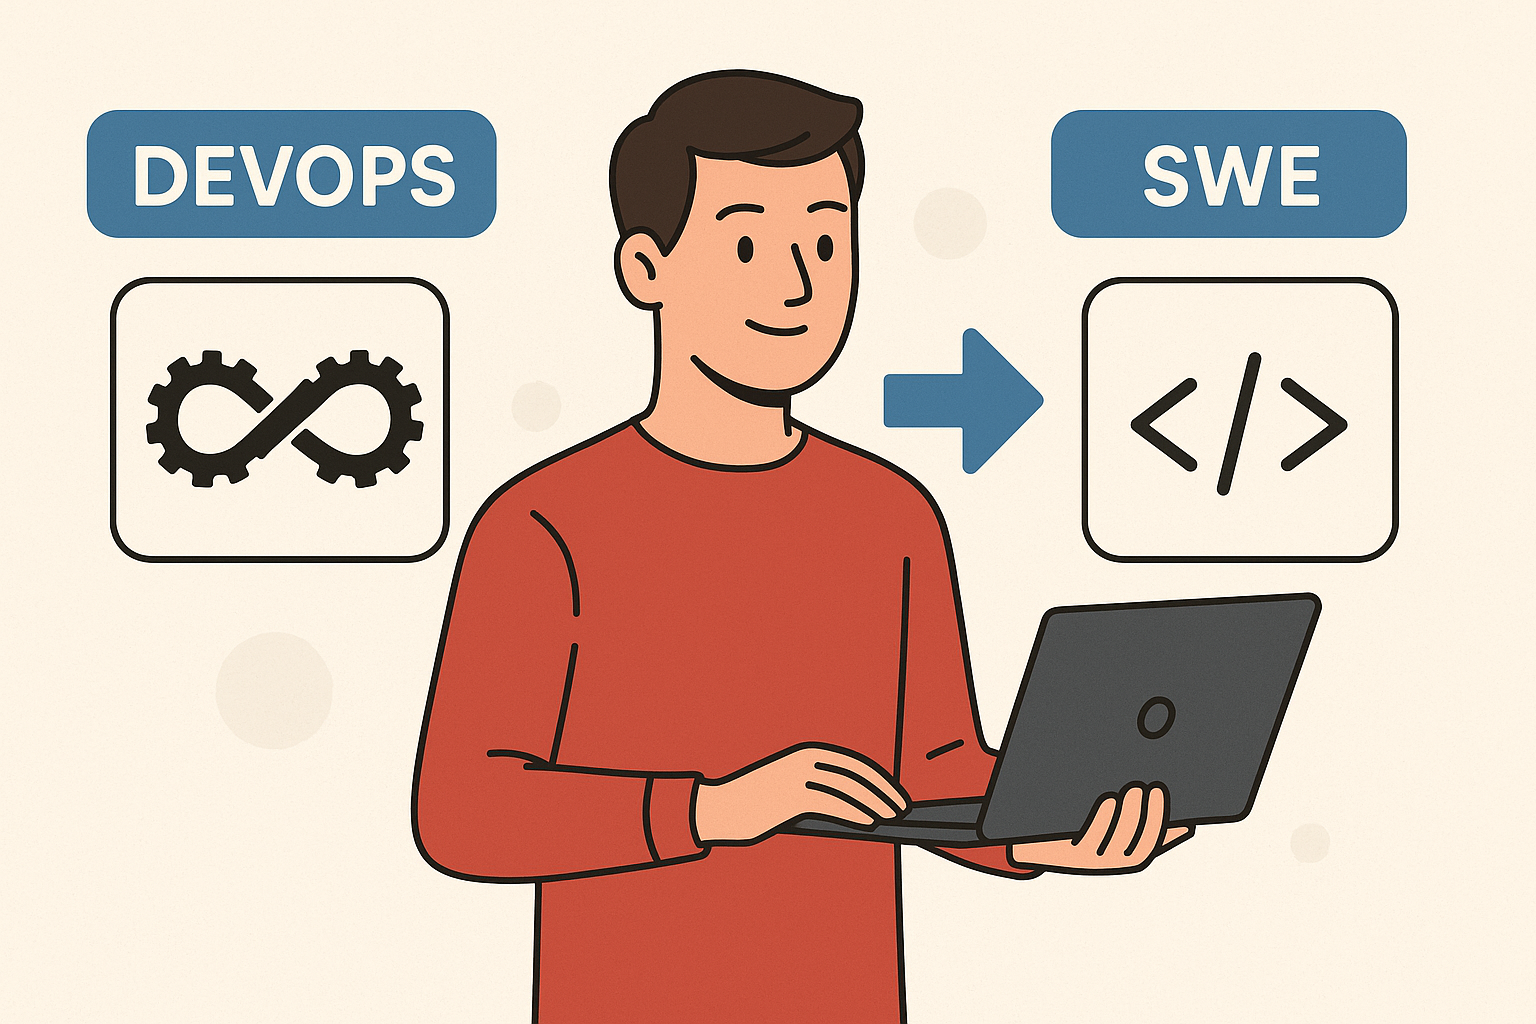
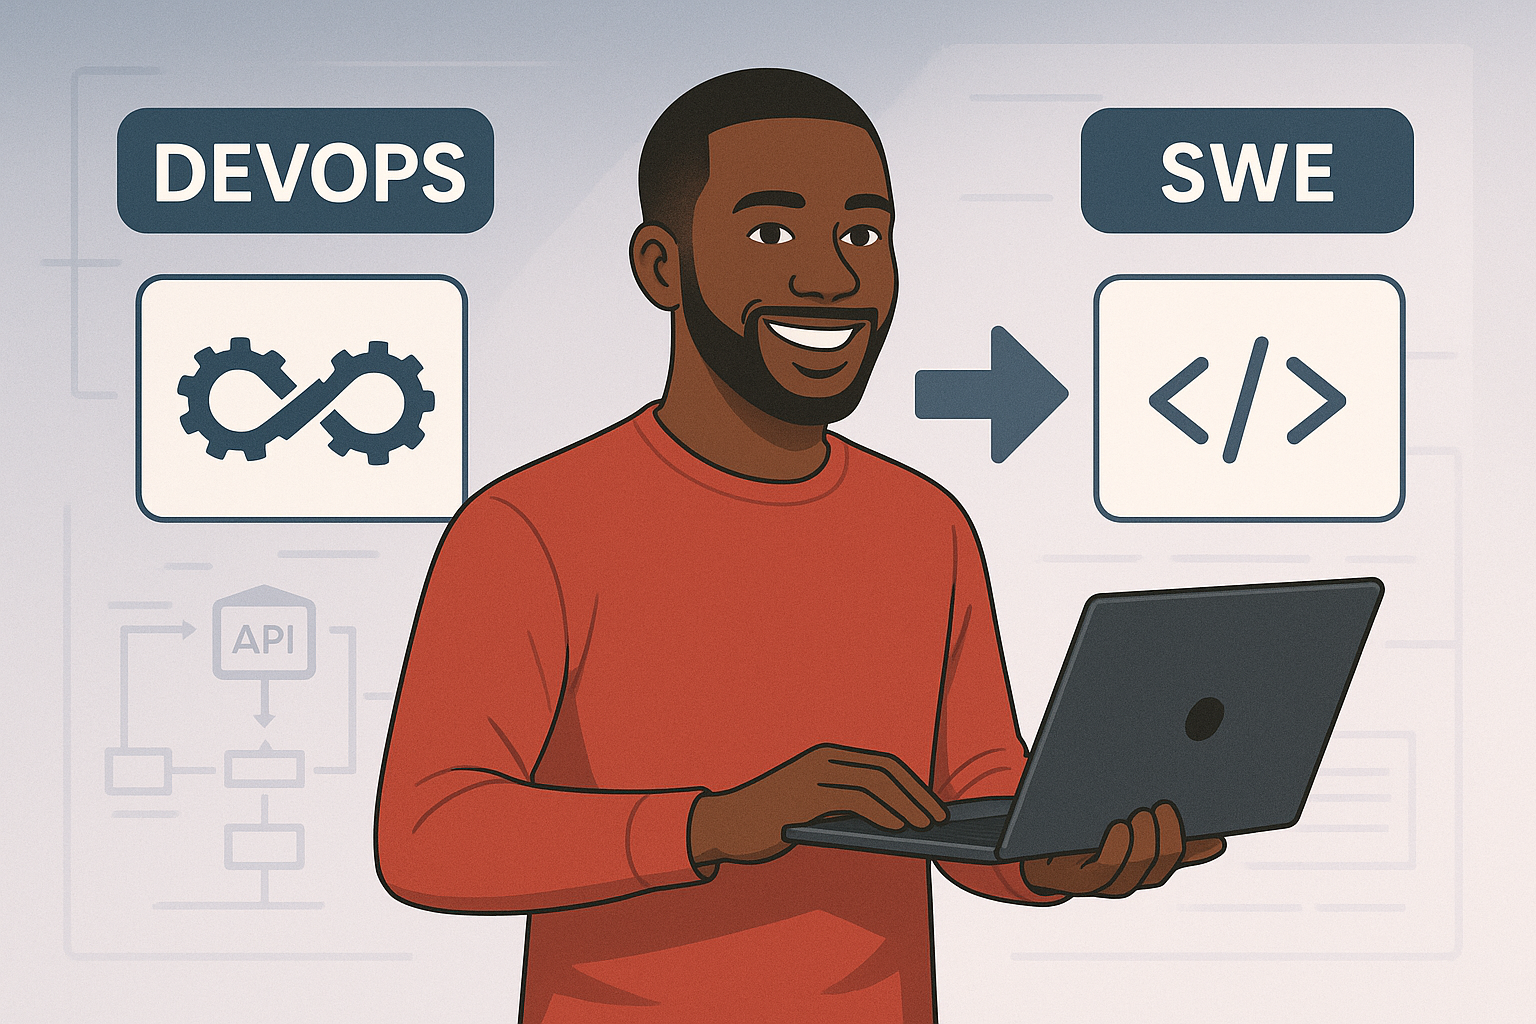
feat: add new image to article

diff --git a/src/presentation/pages/post/Post.tsx b/src/presentation/pages/post/Post.tsx
@@ -41,6 +41,8 @@ const Post = () => {
     fetchPost(slug);
   }, [slug, getPost]);
 
+  if (!Object.keys(attributes).length) return null;
+
   return (
     <C.PostContainer>
       {content === null ? (
@@ -52,7 +54,7 @@ const Post = () => {
             <C.PostHeaderContent>
               <img
                 src={
-                  "https://camo.githubusercontent.com/444008db71c058981970dc8f0898e624f5f663c6e601fa1f6b85ab09a0d3936b/68747470733a2f2f6f63746f6465782e6769746875622e636f6d2f696d616765732f426c61636b746f6361745f73696e676c655f312e6a7067"
+                  attributes.authorImage
                 }
                 alt={"Author"}
               />

diff --git a/src/presentation/pages/home/components/posts/Posts.tsx b/src/presentation/pages/home/components/posts/Posts.tsx
@@ -24,7 +24,7 @@ export const Posts = () => {
               <h3>{title}</h3>
               {summary && <p>{summary}</p>}
               <C.PostFooter>
-                <C.PostFooterDate>{formatDate(date)}</C.PostFooterDate>
+                <C.PostFooterDate>{date ? formatDate(date) : null}</C.PostFooterDate>
                 <Tags tags={tags} />
               </C.PostFooter>
             </C.PostContainerContent>

diff --git a/src/utils/date.ts b/src/utils/date.ts
@@ -1,7 +1,9 @@
 export const formatDate = (date: string) => {
-  return new Date(date).toLocaleDateString('pt-BR', {
+  const [year, month, day] = date.split('-').map(Number);
+  const localDate = new Date(year, month - 1, day);
+  return localDate.toLocaleDateString('pt-BR', {
     year: 'numeric',
     month: 'long',
     day: 'numeric'
-  })
+  });
 }

diff --git a/src/@types/posts.type.ts b/src/@types/posts.type.ts
@@ -5,6 +5,7 @@ export type Attributes = {
   summary?: string;
   tags: string[];
   image?: string;
+  authorImage: string;
 }
 
 export type PostType = Attributes & {

diff --git a/src/data/posts/transitioning-from-devops-to-swe.md b/src/data/posts/transitioning-from-devops-to-swe.md
@@ -1,9 +1,10 @@
 ---
 title: Transicionando de DevOps para Software Enginner
 author: Antonio Azambuja
-date: "2025-06-13"
+date: "2025-06-14"
 summary: "Relato de transição de DevOps/SRE para Software Engineer"
 image: src/assets/transitioning-from-devops-to-swe.png
+authorImage: src/assets/author/antonio.azambuja.jpeg
 tags:
   - "devops"
   - "sre"
@@ -22,7 +23,7 @@ Bom, dando um resumo rápido sobre mim e minha carreira: Tenho 26 anos e trabalh
 
 Em cargos de DevOps/SRE desenvolvi projetos com bastante código para alcançar alguns objetivos. O detalhe importante aqui é que todos foram construídos com pouca ou nenhuma boa prática de desenvolvimento aplicada.
 
-Eu não sei se todos os meus colegas DevOps e SREs por ai compartilham desse sentimento mas eu sempre senti um pouco de sindrome do impostor por não saber desenvolver um software. Meu inicio de carreira foi marcado por uma base muito sólida em desenvolvimento e infraestrutura que pavimentou minha estrada nos cargos de infraestrutura e agora no cargo de Software Engineer.
+Eu não sei se todos os meus colegas DevOps e SREs por ai compartilham desse sentimento mas eu sempre senti um pouco de sindrome do impostor por não saber desenvolver um software. Meu início de carreira foi marcado por uma base muito sólida em desenvolvimento e infraestrutura que pavimentou minha estrada nos cargos de infraestrutura e agora no cargo de Software Engineer.
 
 Mas programar sempre foi um hobby pra mim. Durante meus anos atuando como DevOps/SRE sempre foi um diferencial profissional interessante poder resolver problemas com código.
 
@@ -30,34 +31,13 @@ Agora, para ajudar você, caro leitor e interessado(a) em entender um pouco dess
 
 ### DevOps - Criar ferramental e habilitar a independência da pessoa desenvolvedora
 
-Durante minha jornada como DevOps as responsabilidades eram sempre de entregar um ferramental com a característica de ser *plug-and-play*. O objetivo era tudo ser facilmente aclopado e desacoplado pelos usuários e afim de entregar autonomia para a pessoa desenvolvedora. Pois a última coisa que queremos como equipe DevOps é um ferramental que precisa de intervenção do time para ser implementado. Se formos levar em consideraçãao uma empresa de médio porte o número de desenvolvedores será sempre maior que o de DevOps e essa conta não iria bater nunca. Isso levaria a exaustão do time em poucos meses.
-
-Para esse artigo 2 cases são super importantes:
-
-- Uma CLI em Python para criar e orquestrar clusters Elasticsearch construídos em EC2 na AWS. O nosso objetivo era ter uma forma prática para orquestrar os nós presentes em clusters Elasticsearch respeitando a reindexação de indices causados pela adição ou remoção de nós garantindo zero downtime para os clientes. Isso habilitou o time de DevOps realizar as seguintes mudanças em ambientes produtivos sem downtime:
-  - Adicionar e remover nós;
-  - Aumentar e diminuir tamanho de disco;
-- Orquestrador de queries em banco de dados e exportar métricas para o Prometheus usando Golang e Prometheus Pushgateway. O nosso objetivo era ter uma forma prática de criar métricas a partir de queries de banco de dados uma vez que precisavamos de visibilidade de métricas técnicas para a equipe de DBRE. Contudo, esse projeto habilitou muitos sistemas que não faziam exposição de métricas de negócio sistematicamente. Com isso criarmos um sistema que nos permitiu:
-  - Criar métricas de banco de dados e criar iniciativas para melhorar a performance do sistema da companhia;
-  - Criar dashboards baseados em métricas de negócio para melhorar visibilidade do negócio em sistemas criticos;
+Durante minha jornada como DevOps as responsabilidades eram sempre de entregar um ferramental com a característica de ser *plug-and-play*. O objetivo era tudo ser facilmente aclopado e desacoplado pelos usuários e afim de entregar autonomia para a pessoa desenvolvedora. Pois a última coisa que queremos como equipe DevOps é um ferramental que precisa de intervenção do time para ser implementado. Se formos levar em consideração uma empresa de médio porte o número de desenvolvedores será sempre maior que o de DevOps e essa conta não iria bater nunca. Isso levaria a exaustão do time em poucos meses.
 
 ### Site Reliability Enginner - Garantir a estabilidade dos serviços da companhia
 
 Nessa etapa da minha carreira eu estava buscando amadurecimento profissional que a metodologia SRE me entregou pela forma de trabalho colaborativa entre equipes de SRE e desenvolvedores para garantir confiabilidade e resiliência. Nossa responsabilidade era garantir confiabilidade e resiliência dos sistemas seja por automação, war rooms, análise de incidentes, análise de comportamentos, monitoramento de serviços e pipelines.
 
 Você já precisou analisar o comportamento de um servico com HPA ativo usando métricas customizados que fazem scale up e down com base no número de mensagens em um tópico Kafka? Coisas que se aprendem quando se atua como SRE. Você ainda não terá conhecimento sobre como construir um sistema desses mas com certeza irá te ajudar caso você precise um dia. **E me ajudou futuramente**.
-
-Tive a oportunidade de construir 2 cases que são relevantes para esse artigo:
-
-- Uma integração entre Jenkins e GitLab para automaticamente aplicar um projeto Terraform via Atlantis (Terraform Pull Request Automation para GitHub): Esse foi um projeto criado pois tinhamos um sistema que necessitava de uma pipeline CI/CD para AWS Lambda usando Terraform. Por questões de segurança toda e qualquer alteração deveria ser realizada via Atlantis, para fins de auditoria. Integrei uma pipeline Jenkins com o objetivo de automatizar o processo de deploys via Terraform abstraindo a necessidade de conhecimento dos desenvolvedores em:
-  - Alterar arquivos Terraform com nova versão do package gerado;
-  - Execução do processo de plan e apply do Terraform;
-  - Possuir a permissão de SRE para realizar deploy de código Terraform na AWS via Atlantis;
-  - Processo de rollback de versões;
-  - Canary deploy com AWS Lambda;
-- Cronjob para fazer coleta de informações de Infoblox DTCs: Esse foi um projeto criado para entender como estavam as configurações de DTCs no Infoblox. Infoblox é um DNS Server que tinha uma funcionalidade chamada DTC, responsável por fazer o balanceamento de requisições HTTP baseado em DNS, ou seja, podiamos configurar um sistema multi-cloud com balanceamento Round Robin ou por porcentagem, por exemplo. Construi um script Python para realizar a consulta dessas informações no Infoblox e atualizar uma base de dados que foi usada para:
-  - Criar um dashboard com as informações dos DTCs;
-  - Planejar e implementar padronizações baseado em best practices de DNS para sistemas em multi-cloud;
 
 ## Motivações de carreira
 
